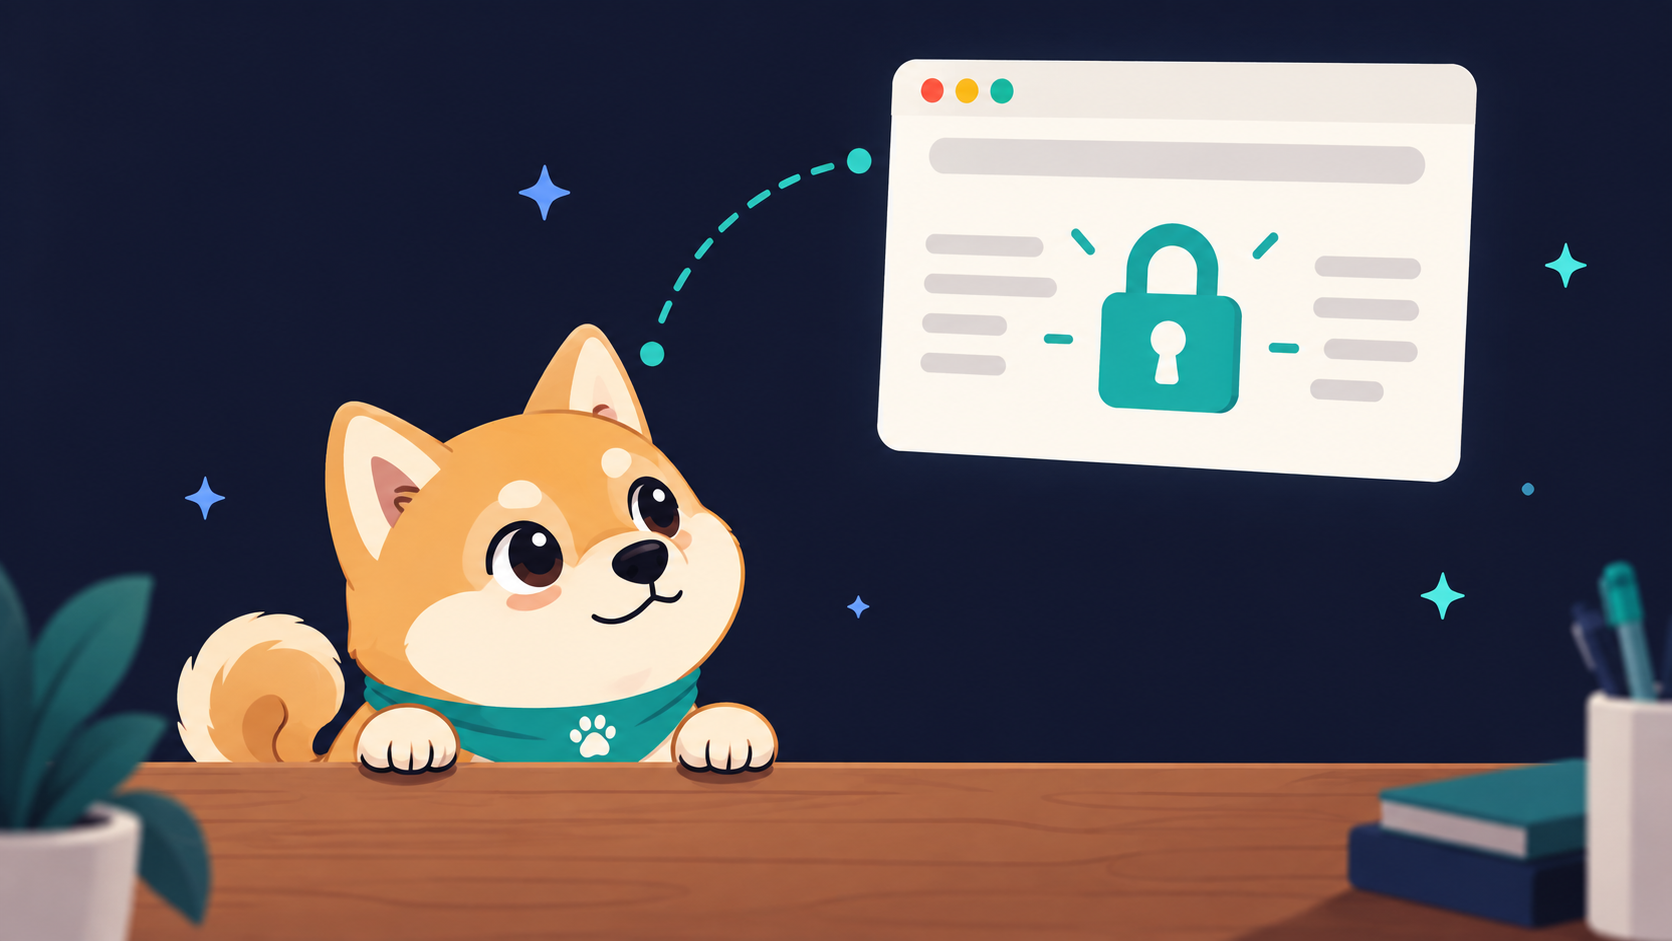
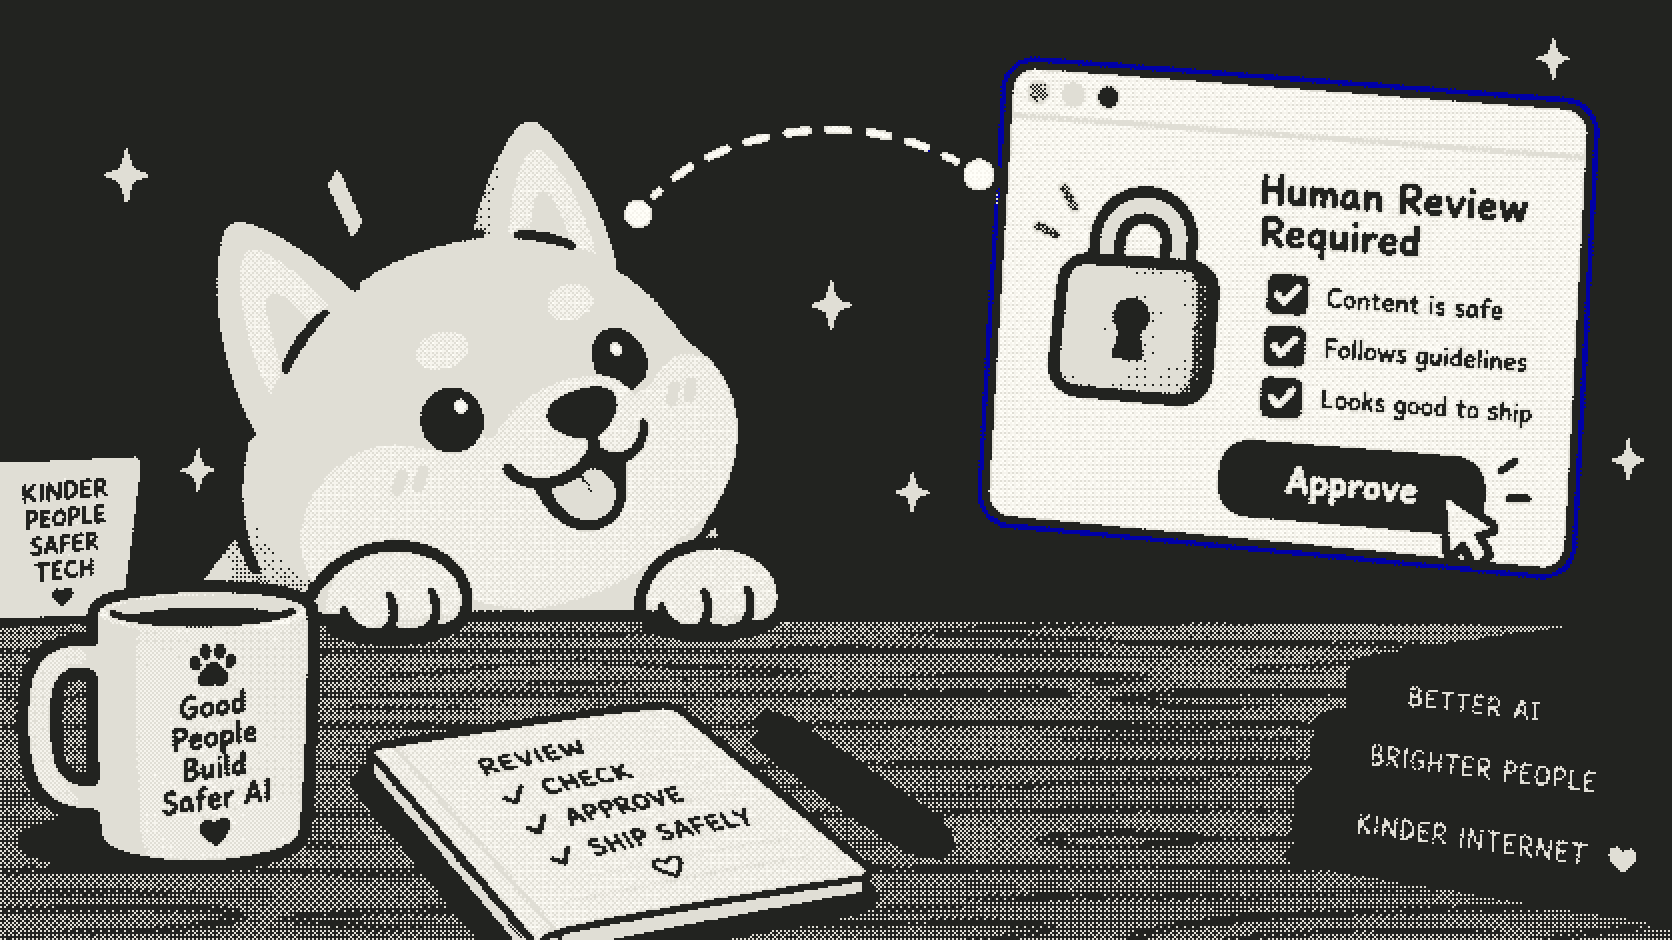
feat(web): regenerate step cards as mascot illustrations + theme-dither skill
- shiba-card-01/02/03: cute shiba mascot versions (skateboard->repo, desk+lock->approval, magnifier->diff), dithered shiba-light + shiba-dark
- .codex/skills/theme-dither-image: reusable skill for the generate->dither->data-theme-swap pipeline (also installed to ~/.agents/skills)

diff --git a/.codex/skills/theme-dither-image/SKILL.md b/.codex/skills/theme-dither-image/SKILL.md
@@ -1,0 +1,53 @@
+---
+name: theme-dither-image
+description: Generate AI hero/illustration images and quantize them to the site's theme palette via Bayer ordered dithering (zuse.sh / bezalel.network style). Use when creating blog heroes, marketing illustrations, retro pixel-art assets, or theme-matched light/dark image variants for the Shiba site.
+---
+
+# Theme-Dithered Images
+
+Pipeline: built-in image_gen tool -> scripts/zuse-dither.py -> light + dark palette variants -> CSS data-theme swap.
+
+## Generate
+
+Use the built-in image_gen tool. Style prompts that work:
+
+- Glass console (blog/marketing): "Minimalist isometric 3D render of a futuristic glass terminal console hovering in a pitch-black void, sleek holographic panels, sharp geometric lines, techno-brutalist developer tool aesthetic, single light source, high contrast shadows, clean silhouette, zero clutter, cinematic dark mode, wide 16:9 composition"
+- Retro window (bezalel-style): "Retro 90s desktop OS window, navy titlebar with minimize/maximize/close buttons, grey menu bar, pixel-art CRT monitors, outlined tool chips, icon row with labels, bottom status bar, flat pixel aesthetic, wide 16:9"
+- Mascot cards: "A cute shiba inu dog mascot <action>, flat vector illustration, solid dark navy background with sparkle stars, bold outlines, clean minimal shapes, wide 16:9 composition"
+
+Generated files land under ~/.codex/generated_images/<id>/exec-*.png — copy the newest one out before dithering.
+
+## Dither
+
+    python3 scripts/zuse-dither.py <in.png> <out.png> [pixel_size] [palette]
+
+Palettes (defined in scripts/zuse-dither.py):
+- violet-dusk — zuse.sh blog palette (blog heroes)
+- shiba-light — theme.css light tokens (site illustrations)
+- shiba-dark — theme.css dark tokens
+
+Site images: emit BOTH shiba-light and shiba-dark variants (<name>.png and <name>-dark.png).
+
+## Light/dark swap (site, not blog)
+
+Theme is data-theme on <html>, not prefers-color-scheme:
+
+    <img class="dithered-light" src="/assets/x.png" alt="..." />
+    <img class="dithered-dark" src="/assets/x-dark.png" alt="" aria-hidden="true" />
+
+    .dithered-dark { display:none; }
+    :root[data-theme='dark'] .dithered-dark { display:block; }
+    :root[data-theme='dark'] .dithered-light { visibility:hidden; }
+
+Inside an aspect-ratio slot (.step-illustration), give the dark img position:absolute; inset:0.
+
+## Animated variant
+
+Shift the Bayer matrix per frame (np.roll) and re-dither — 4 frames, 240ms, looping GIF = retro CRT shimmer, still palette-quantized.
+
+## Conventions
+
+- Blog heroes: apps/web/public/blog/<slug>.png, embed ![alt](/blog/<slug>.png) after frontmatter.
+- Site assets: apps/web/public/assets/.
+- image-rendering: pixelated on all dithered img CSS.
+- Dithered output is ~20-60KB vs ~1MB raw — always dither before commit.
